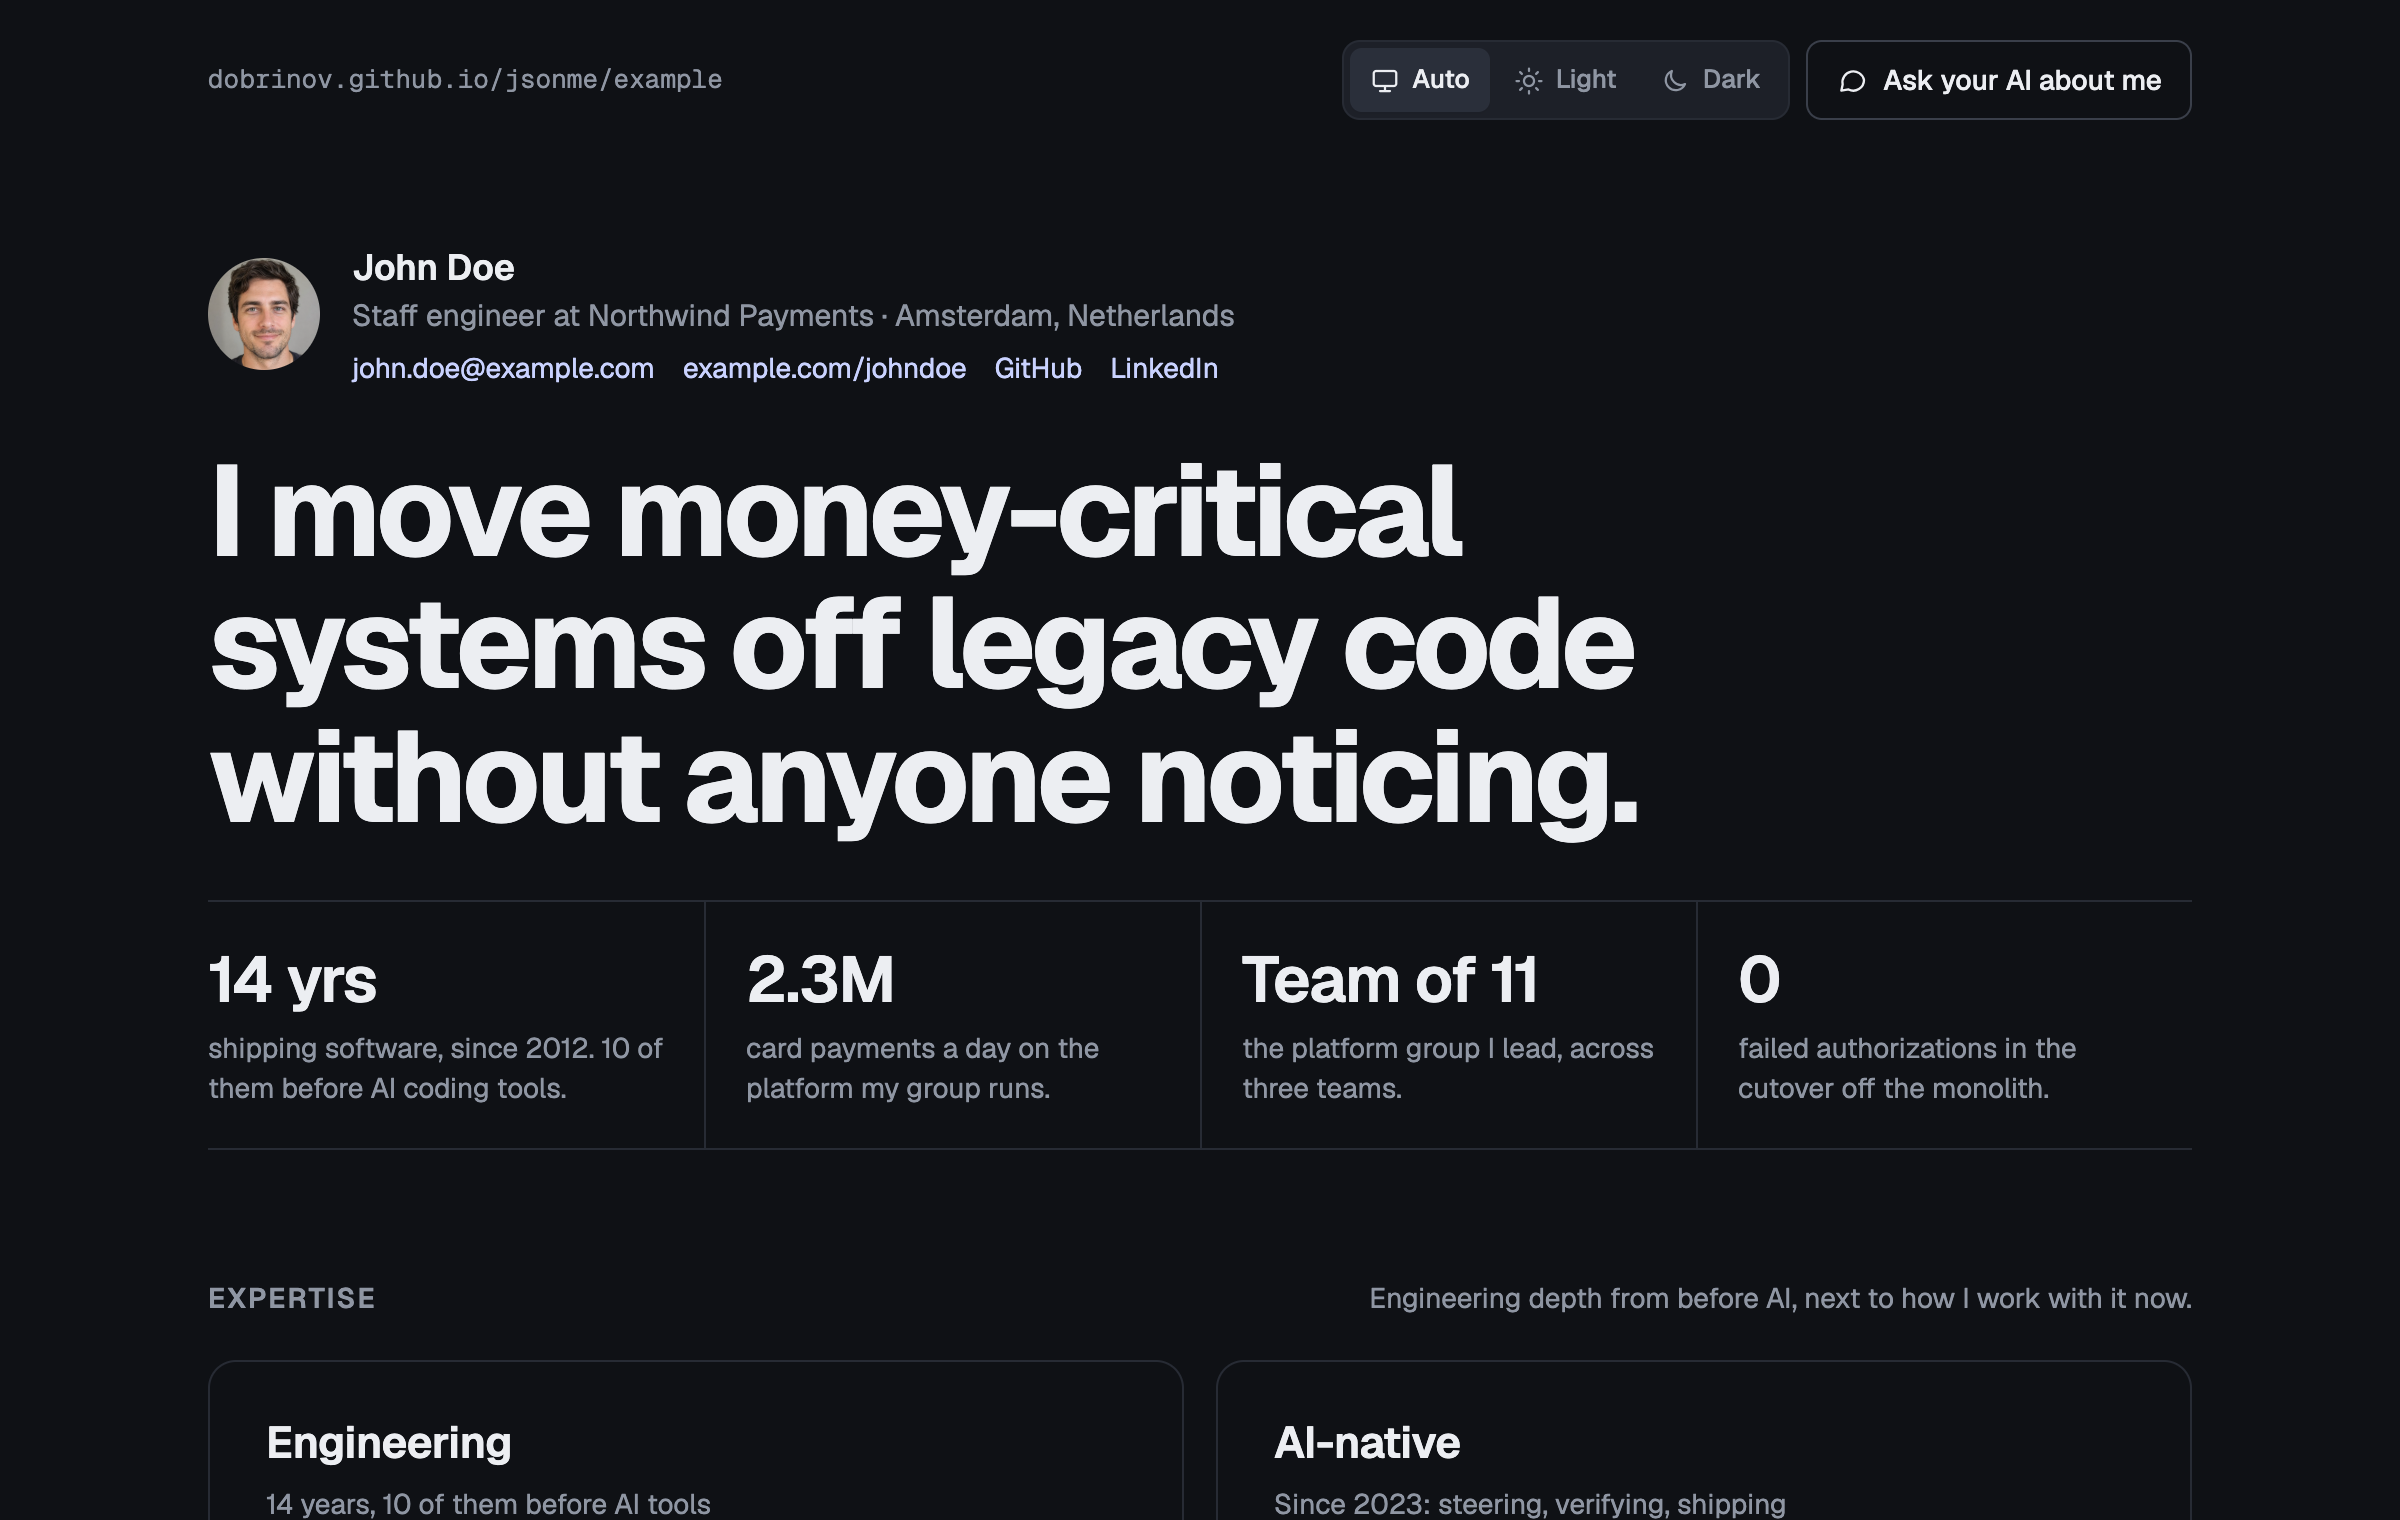
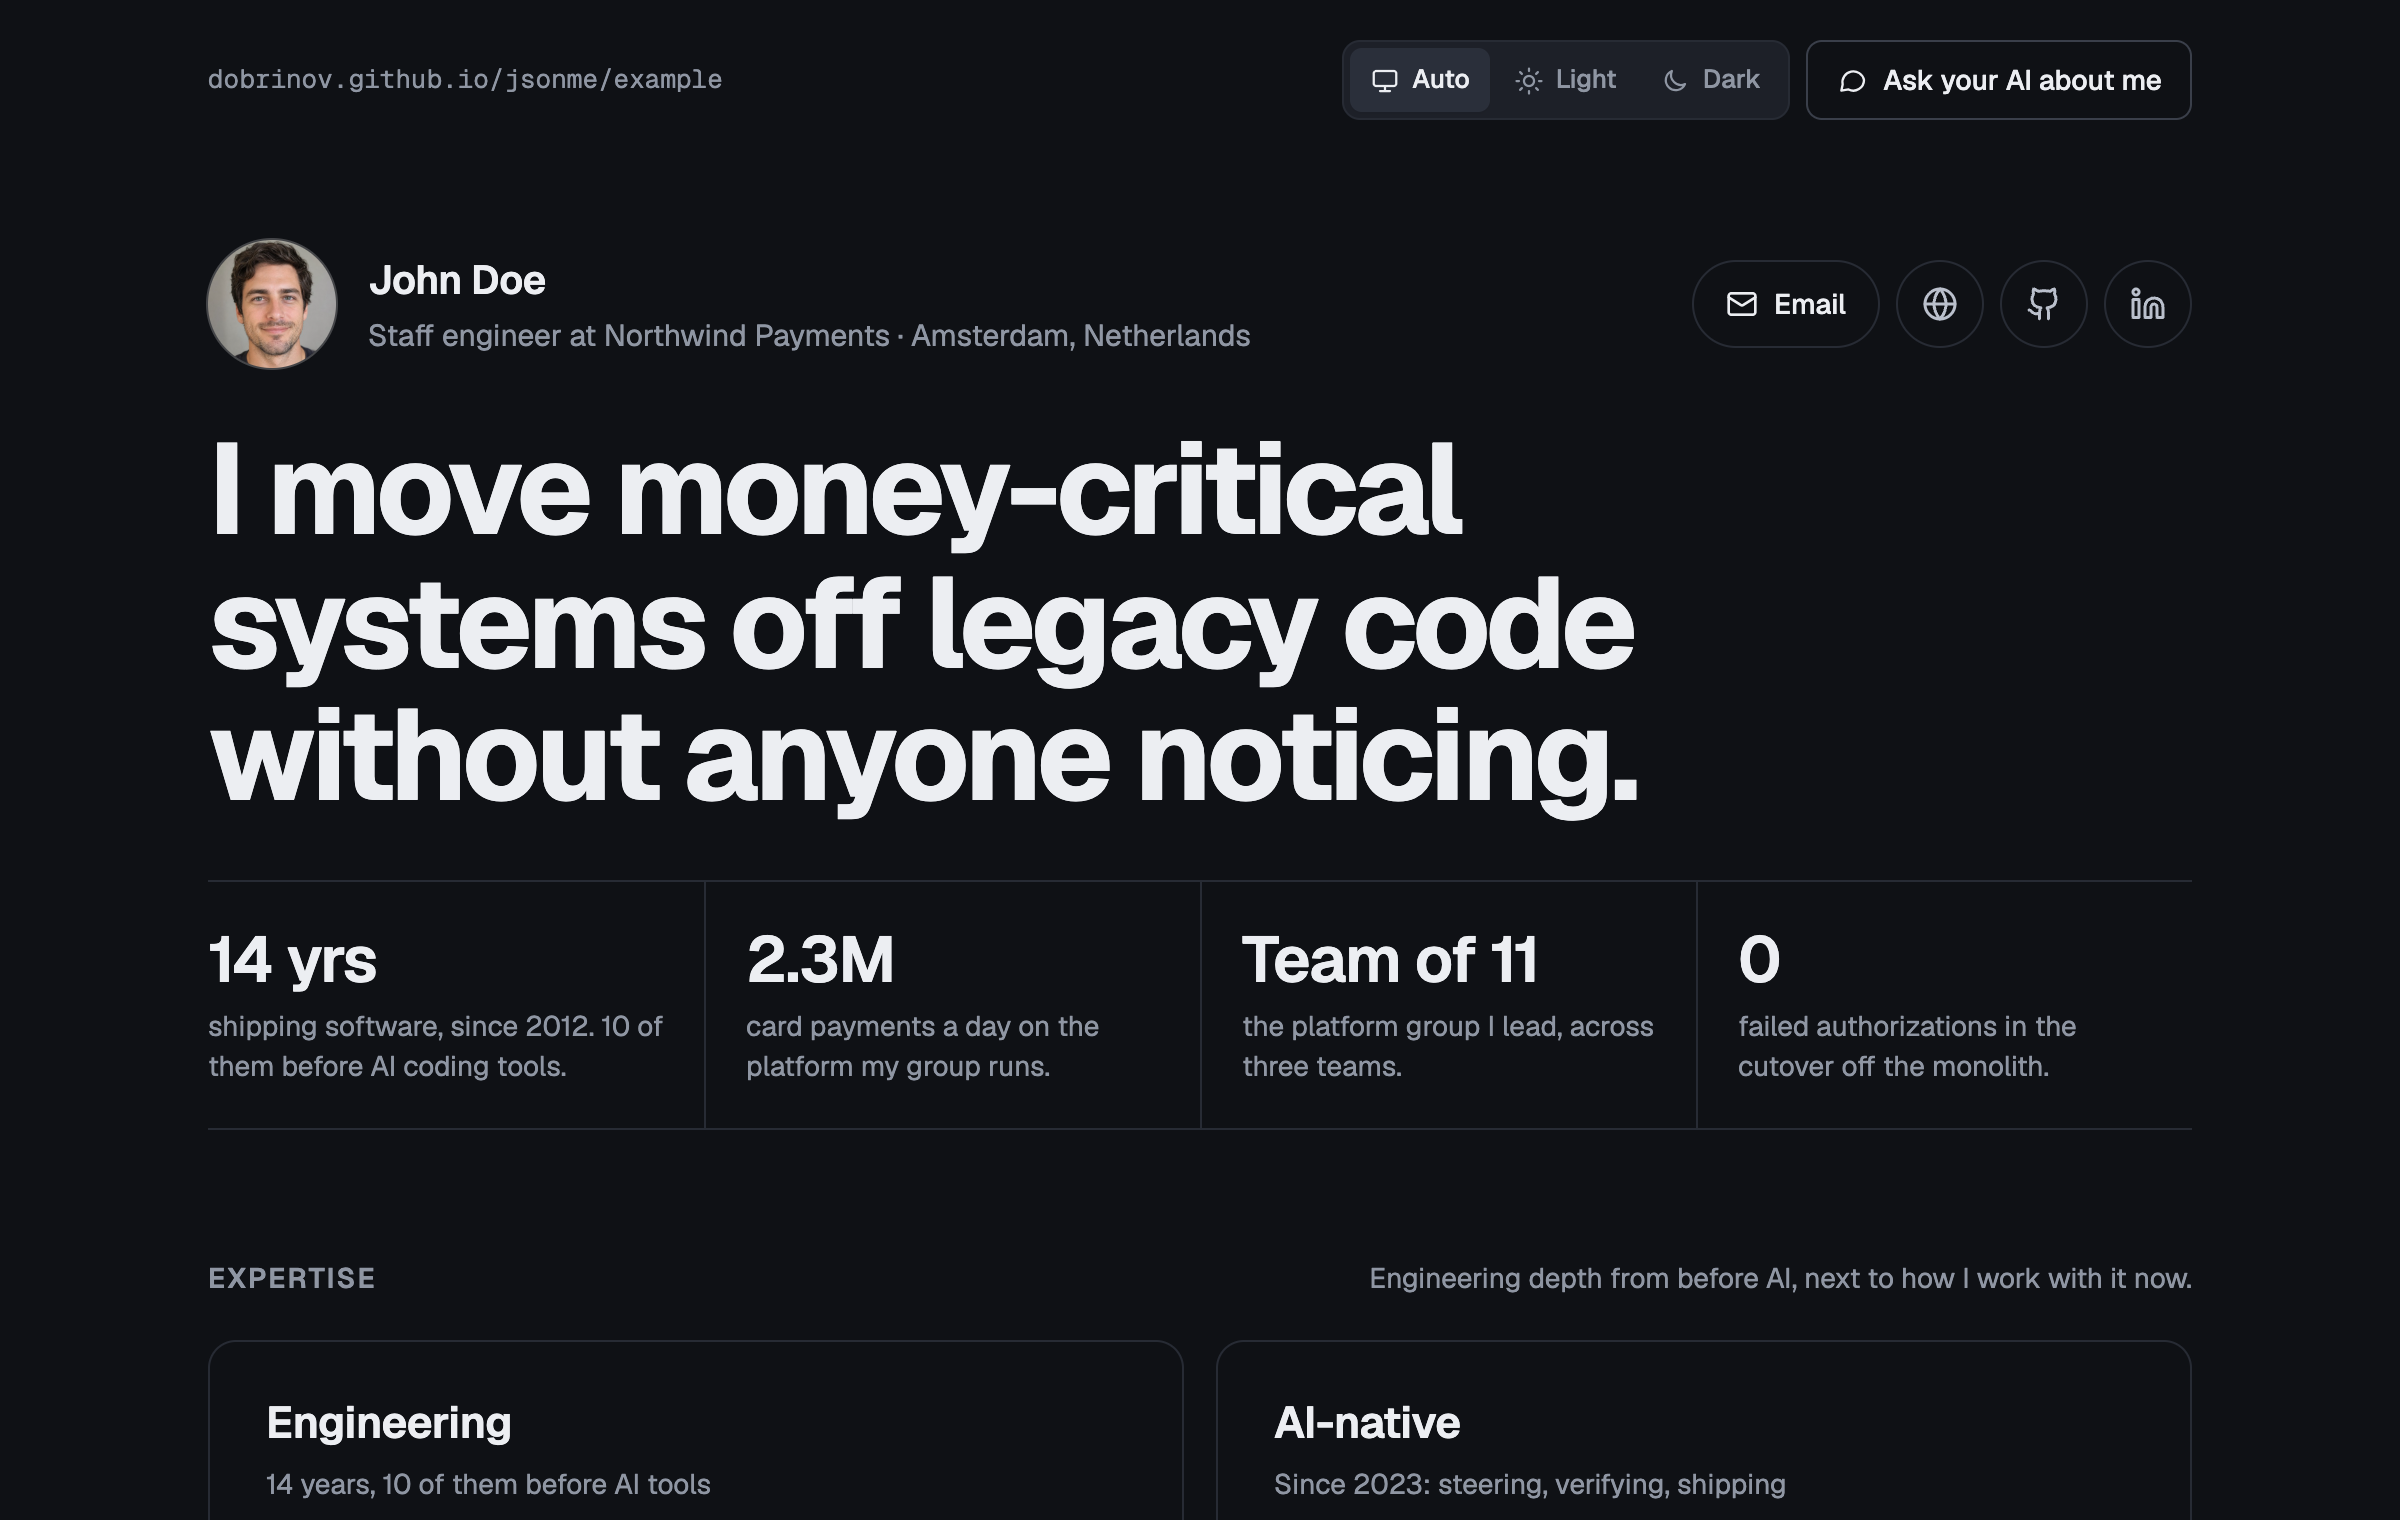
Header: name and role on the left, contact as round buttons on the right
Email keeps its label; website and profiles are icons with the address as a tooltip.
Print shows every address as text.

diff --git a/me/src/theme.css b/me/src/theme.css
@@ -169,13 +169,19 @@ details[open] > summary .sign::before { content: '−'; }
 
 /* Header */
 main.profile { display: flex; flex-direction: column; gap: 64px; padding-top: 40px; padding-bottom: 96px; }
-.who { display: flex; gap: 16px; align-items: center; }
-.avatar { width: 56px; height: 56px; flex: none; border-radius: 50%; background: var(--avatar); display: inline-flex; align-items: center; justify-content: center; font-size: 20px; font-weight: 600; color: var(--body); object-fit: cover; }
-.who .name { font-size: 18px; font-weight: 600; }
-.who .meta { font-size: 15px; color: var(--muted); }
-.who .contact { display: flex; flex-wrap: wrap; gap: 2px 14px; margin-top: 4px; font-size: 14px; }
-.who .contact a { color: var(--accent-text); text-decoration: none; }
-.who .contact a:hover { text-decoration: underline; text-underline-offset: 3px; }
+.who { display: flex; flex-wrap: wrap; gap: 16px 24px; align-items: center; justify-content: space-between; }
+.who .id { display: flex; gap: 16px; align-items: center; min-width: 0; }
+.avatar { width: 64px; height: 64px; flex: none; border-radius: 50%; background: var(--avatar); display: inline-flex; align-items: center; justify-content: center; font-size: 22px; font-weight: 600; color: var(--body); object-fit: cover; box-shadow: 0 0 0 1px var(--hover-ring); }
+.who .name { font-size: 20px; font-weight: 600; letter-spacing: -0.01em; }
+.who .meta { margin-top: 2px; font-size: 15px; color: var(--muted); }
+.who .contact { display: flex; flex-wrap: wrap; gap: 8px; }
+.who .contact a { position: relative; display: inline-flex; align-items: center; justify-content: center; gap: 8px; height: 44px; border: 1px solid var(--line); border-radius: 999px; color: var(--body); text-decoration: none; transition: color 0.12s, background 0.12s, border-color 0.12s; }
+.who .contact a:hover { color: var(--ink); background: var(--chip); border-color: var(--field); }
+.who .contact .mail { padding: 0 16px; color: var(--ink); font-size: 14px; font-weight: 500; }
+.who .contact .mail svg { width: 16px; height: 16px; }
+.who .contact .icon { width: 44px; }
+.who .contact .print { display: none; }
+.who .contact a:last-child::after { left: auto; right: 0; transform: none; }
 .intro { display: flex; flex-direction: column; gap: 28px; }
 .headline { margin: 0; font-size: clamp(36px, 5.6vw, 64px); line-height: 1.04; letter-spacing: -0.035em; font-weight: 700; max-width: 900px; text-wrap: balance; }
 .summary { margin: 0; font-size: 18px; line-height: 1.6; color: var(--body); max-width: 760px; }
@@ -475,6 +481,10 @@ article.post { max-width: 720px; padding-top: 48px; padding-bottom: 64px; displa
   main.profile { gap: 28px; padding: 0; }
   .story { display: flex !important; break-inside: avoid; }
   .tl-hint, .pop-close, [data-tip]::after { display: none !important; }
+  .who .contact { gap: 2px 14px; }
+  .who .contact a, .who .contact .icon, .who .contact .mail { height: auto; width: auto; padding: 0; border: 0; font-size: 13px; font-weight: 400; color: var(--accent-text); }
+  .who .contact svg, .who .contact .screen { display: none; }
+  .who .contact .print { display: inline; }
   .pops { display: flex; flex-direction: column; gap: 12px; }
   .pop.job-pop { display: flex !important; flex-direction: column; gap: 10px; position: static; inset: auto; margin: 0; width: auto; max-height: none; overflow: visible; box-shadow: none; break-inside: avoid; }
   .timeline-scroll { overflow: visible; margin-top: 0; padding-top: 0; }
